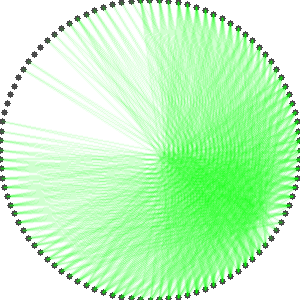
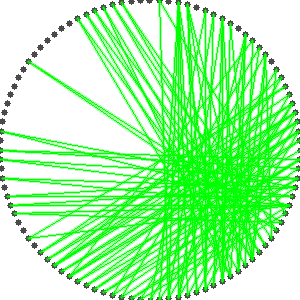
Cleaned up Files

diff --git a/Spinboard.py b/Spinboard.py
@@ -8,8 +8,6 @@ import sys
 '''
 Progression:
  - Fix the Memory issue for starting with more nails
- - Implement multiple colors
-    - Intensity of not rgb: treat rgb of wanted as weights to get the "grayscale"
 
 Easier:
  - Comments :)
@@ -248,15 +246,6 @@ class Spinboard:
 # spinboard = Spinboard("images/Butterfly.png", 100, weightedImage="images/Butterfly_weights.png")
 # order = spinboard.drawLines(2500)
 
-# spinboard = Spinboard("images/ColorWheel.png", numNails=100, threadColor=(255, 0, 0, 30), replacedColor=(255, 0, 0))
-# order = spinboard.drawLines(500)
-# cv2.imwrite("Blue.png", spinboard.image)
-# spinboard2 = Spinboard("images/ColorWheel.png", numNails=100, threadColor=(0, 0, 255, 30), replacedColor=(0, 0, 255))
-# order = spinboard3.drawLines(500)
-# cv2.imwrite("Red.png", spinboard2.image)
-# spinboard3 = Spinboard("images/ColorWheel.png", numNails=100, threadColor=(0, 255, 0, 30), replacedColor=(0, 255, 0))
-# order = spinboard3.drawLines(500)
-# cv2.imwrite("Green.png", spinboard3.image)
-
-mixed = cv2.addWeighted(cv2.imread("Blue.png"), .3333, cv2.imread("Red.png"), .3333, 0)
-cv2.imwrite("Mixed.png", cv2.addWeighted(mixed, .6667, cv2.imread("Green.png"), .3333, 0))
+spinboard = Spinboard("images/ColorWheel.png", numNails=100, threadColor=(255, 0, 0, 30), replacedColor=(255, 0, 0))
+order = spinboard.drawLines(500)
+# cv2.imwrite("Output.png", spinboard.image)
